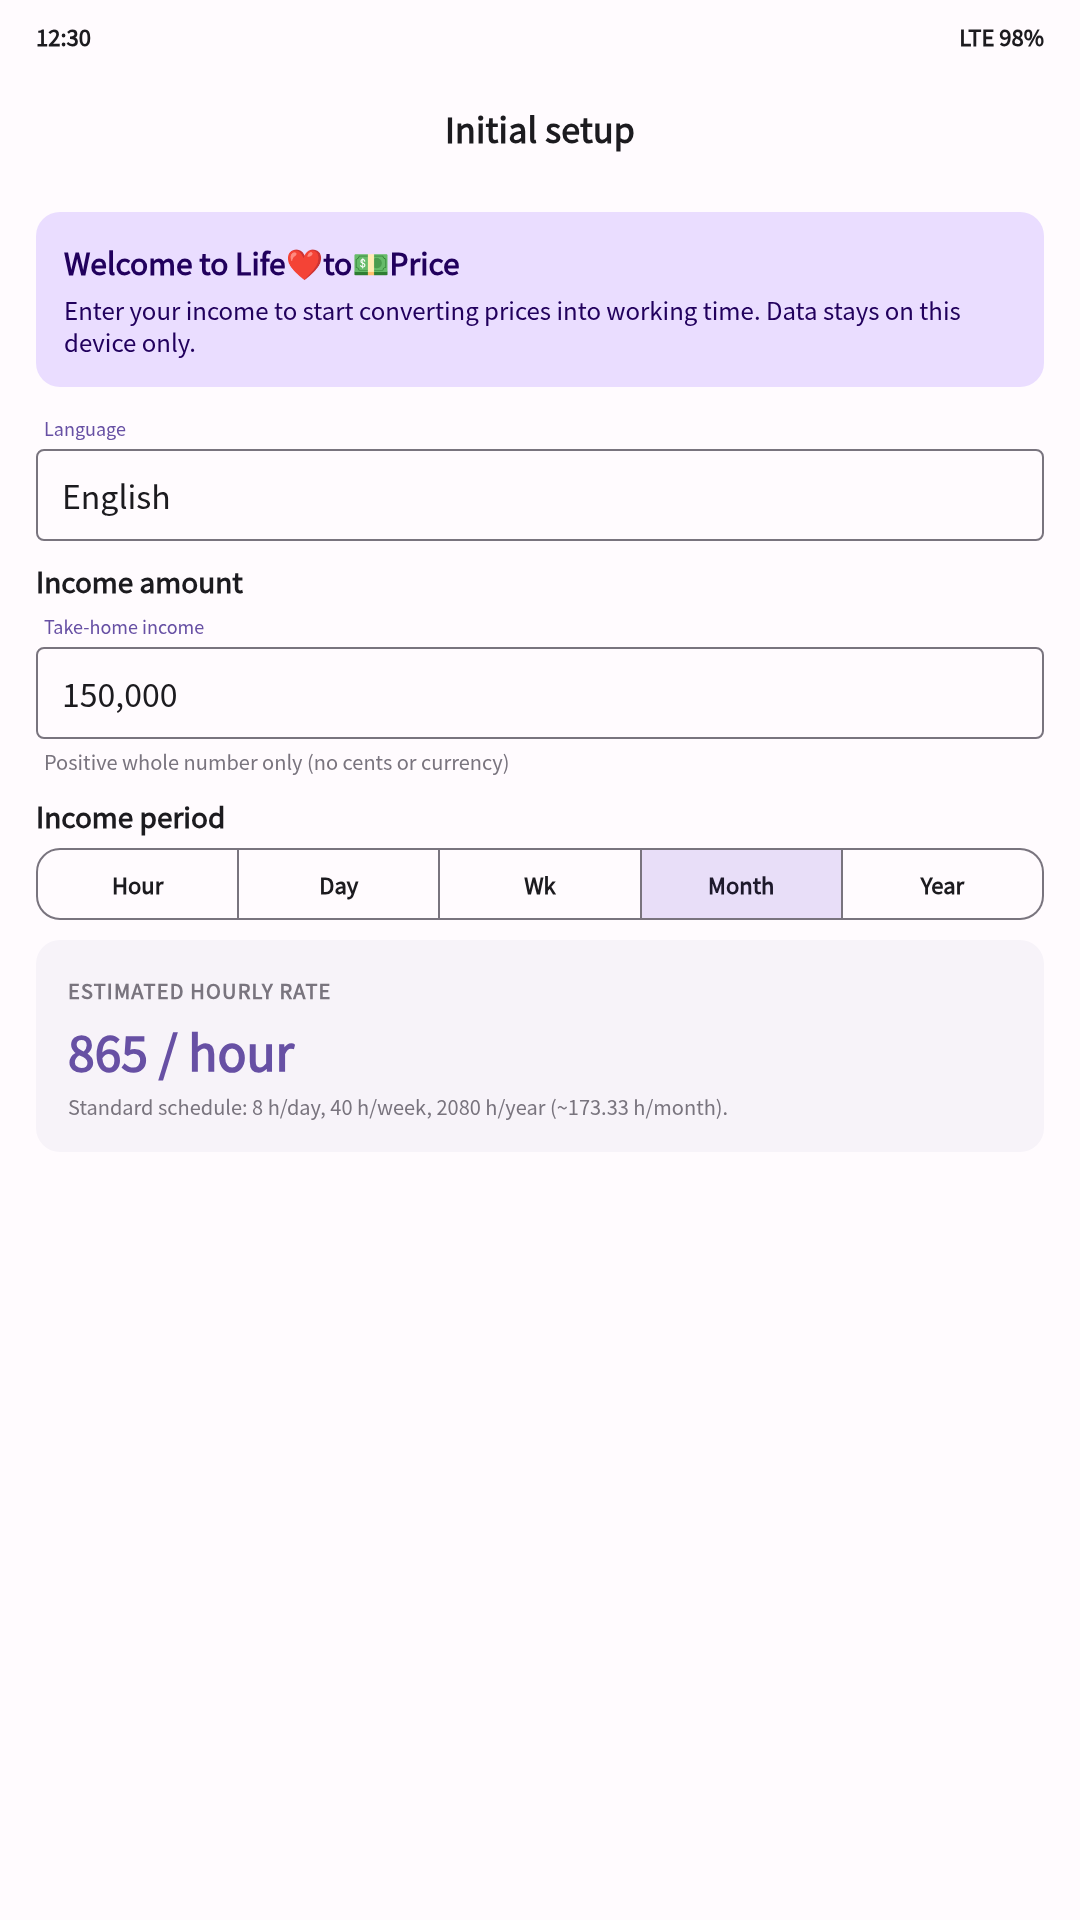
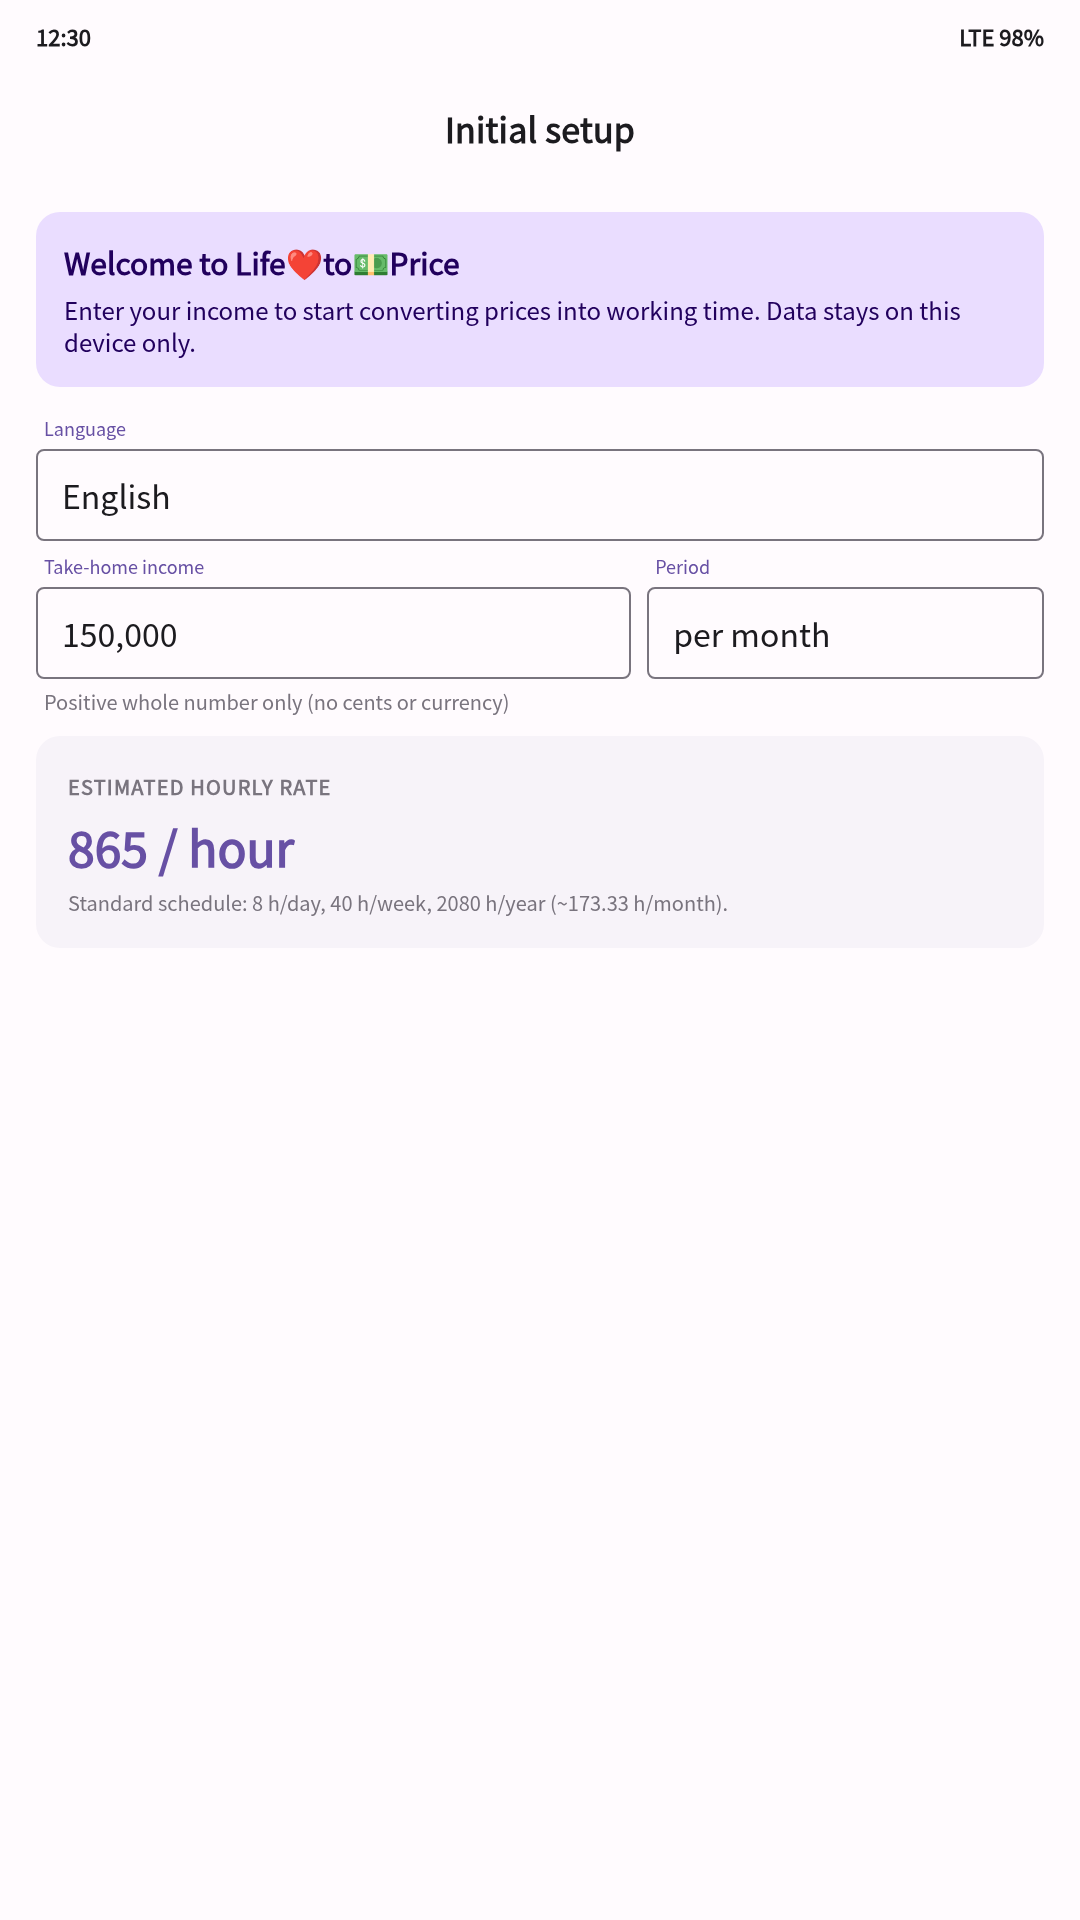
chore: update version to 1.1.0 and enhance documentation
Bumped the app version to 1.1.0 in app.json, package.json, and package-lock.json. Updated versionCode to 2 for Android builds. Modified build_aab.py to dynamically set the AAB destination filename based on the new version. Enhanced Google Play documentation to reflect the version change and added a new "What's new" file for the release. Updated screenshots and localization files to ensure consistency with the new version.

Closes #XX

diff --git a/docs/google-play/preview/phone.html b/docs/google-play/preview/phone.html
@@ -50,6 +50,19 @@
       font-size: 36px;
     }
     .appbar-action.left { right: auto; left: 24px; font-size: 44px; }
+    .income-row { display: flex; gap: 16px; margin-top: 12px; }
+    .income-row .field { flex: 3; margin: 0; }
+    .income-row .field.period { flex: 2; }
+    .privacy {
+      margin-top: 16px;
+      background: transparent;
+      border: 0;
+      color: #6750A4;
+      font-size: 24px;
+      font-weight: 600;
+      padding: 16px 0;
+      width: 100%;
+    }
     .content { flex: 1; padding: 28px 36px 48px; overflow: hidden; }
     .card {
       background: rgb(243, 237, 246);
@@ -120,9 +133,6 @@
     .seg.on { background: #E8DEF8; color: #1D192B; }
     .rate { font-size: 48px; font-weight: 800; color: #6750A4; margin: 10px 0 8px; }
     .small { font-size: 20px; color: #79747E; line-height: 1.35; }
-    .dob { display: flex; gap: 16px; }
-    .dob .outlined { flex: 1; font-size: 28px; }
-    .dob .year { flex: 1.4; }
     .btn {
       margin-top: 28px;
       background: #6750A4;
@@ -168,24 +178,22 @@
         welcomeBody: "Укажите ваш доход, чтобы начать переводить цены в рабочее время. Данные остаются только на этом устройстве.",
         language: "Язык",
         languageValue: "Русский",
-        incomeAmount: "Сумма дохода",
         netIncome: "Доход «на руки»",
         incomeValue: "150 000",
         incomeHint: "Только целое положительное число (без копеек и валюты)",
-        period: "Период получения",
-        periods: ["Час", "День", "Нед.", "Месяц", "Год"],
+        period: "Период",
+        periodValue: "в месяц",
         hourlyRate: "Расчётная часовая ставка",
         perHour: "865 / час",
         schedule: "Стандартный график: 8 ч/день, 40 ч/неделю, 2080 ч/год (~173.33 ч/мес).",
         dob: "Дата рождения",
-        day: "День",
-        month: "Месяц",
-        year: "Год",
+        dobValue: "10 сентября 1996 г.",
         sex: "Пол",
         male: "Муж",
         female: "Жен",
         remaining: "Остаток жизни ≈ 43 года",
         save: "Сохранить доход",
+        privacy: "Политика конфиденциальности",
       },
       en: {
         brand: "Life❤to💵Price",
@@ -206,24 +214,22 @@
         welcomeBody: "Enter your income to start converting prices into working time. Data stays on this device only.",
         language: "Language",
         languageValue: "English",
-        incomeAmount: "Income amount",
         netIncome: "Take-home income",
         incomeValue: "150,000",
         incomeHint: "Positive whole number only (no cents or currency)",
-        period: "Income period",
-        periods: ["Hour", "Day", "Wk", "Month", "Year"],
+        period: "Period",
+        periodValue: "per month",
         hourlyRate: "Estimated hourly rate",
         perHour: "865 / hour",
         schedule: "Standard schedule: 8 h/day, 40 h/week, 2080 h/year (~173.33 h/month).",
         dob: "Date of birth",
-        day: "Day",
-        month: "Month",
-        year: "Year",
+        dobValue: "September 10, 1996",
         sex: "Sex",
         male: "Male",
         female: "Female",
         remaining: "Remaining life ≈ 43 years",
         save: "Save income",
+        privacy: "Privacy policy",
       },
       "zh-Hans": {
         brand: "Life❤to💵Price",
@@ -244,24 +250,22 @@
         welcomeBody: "请填写收入，以便将价格换算为工作时间。数据仅保存在本设备上。",
         language: "语言",
         languageValue: "中文",
-        incomeAmount: "收入金额",
         netIncome: "实得收入",
         incomeValue: "150,000",
         incomeHint: "仅限正整数（不含小数和货币符号）",
-        period: "收入周期",
-        periods: ["时", "日", "周", "月", "年"],
+        period: "周期",
+        periodValue: "每月",
         hourlyRate: "折算小时工资",
         perHour: "865 / 小时",
         schedule: "标准工时：每天 8 小时、每周 40 小时、每年 2080 小时（约每月 173.33 小时）。",
         dob: "出生日期",
-        day: "日",
-        month: "月",
-        year: "年",
+        dobValue: "1996年9月10日",
         sex: "性别",
         male: "男",
         female: "女",
         remaining: "剩余寿命 ≈ 43 年",
         save: "保存收入",
+        privacy: "隐私政策",
       },
     };
 
@@ -277,13 +281,11 @@
     function appbar(title, extras = "") {
       return `<div class="appbar">${extras}<div class="appbar-title">${title}</div></div>`;
     }
-    function field(label, value) {
-      return `<div class="field"><div class="field-label">${label}</div><div class="outlined"><span class="value">${value}</span></div></div>`;
+    function field(label, value, extraClass = "") {
+      return `<div class="field${extraClass ? ` ${extraClass}` : ""}"><div class="field-label">${label}</div><div class="outlined"><span class="value">${value}</span></div></div>`;
     }
-    function segments(selected) {
-      return `<div class="segments">${t.periods.map((label, i) =>
-        `<div class="seg${i === selected ? " on" : ""}">${label}</div>`
-      ).join("")}</div>`;
+    function incomeAndPeriod() {
+      return `<div class="income-row">${field(t.netIncome, t.incomeValue)}${field(t.period, t.periodValue, "period")}</div>`;
     }
 
     function converter(kind) {
@@ -312,11 +314,8 @@
         <div class="content">
           <div class="welcome"><h2>${t.welcomeTitle}</h2><p>${t.welcomeBody}</p></div>
           ${field(t.language, t.languageValue)}
-          <div class="section">${t.incomeAmount}</div>
-          ${field(t.netIncome, t.incomeValue)}
+          ${incomeAndPeriod()}
           <div class="hint">${t.incomeHint}</div>
-          <div class="section">${t.period}</div>
-          ${segments(3)}
           <div class="card level1">
             <div class="label">${t.hourlyRate}</div>
             <div class="rate">${t.perHour}</div>
@@ -328,19 +327,12 @@
     function settingsPerson() {
       return `
         ${statusBar()}
-        ${appbar(t.incomeTitle, `<button class="appbar-action left" aria-hidden="true">×</button>`)}
+        ${appbar(t.incomeTitle, `<button class="appbar-action left" aria-hidden="true">←</button>`)}
         <div class="content">
           ${field(t.language, t.languageValue)}
-          <div class="section">${t.incomeAmount}</div>
-          ${field(t.netIncome, t.incomeValue)}
-          <div class="section">${t.period}</div>
-          ${segments(3)}
-          <div class="section">${t.dob}</div>
-          <div class="dob">
-            <div class="outlined"><span class="value">10</span></div>
-            <div class="outlined"><span class="value">9</span></div>
-            <div class="outlined year"><span class="value">1996</span></div>
-          </div>
+          ${incomeAndPeriod()}
+          <div class="hint">${t.incomeHint}</div>
+          ${field(t.dob, t.dobValue)}
           <div class="section">${t.sex}</div>
           <div class="segments">
             <div class="seg on">${t.male}</div>
@@ -348,6 +340,7 @@
           </div>
           <div class="life-preview">${t.remaining}</div>
           <button class="btn">${t.save}</button>
+          <button class="privacy">${t.privacy}</button>
         </div>`;
     }
 

diff --git a/docs/google-play/build_aab.py b/docs/google-play/build_aab.py
@@ -3,6 +3,7 @@
 
 from __future__ import annotations
 
+import json
 import secrets
 import shutil
 import subprocess
@@ -14,7 +15,9 @@ CRED = ROOT / "credentials"
 KEYSTORE = CRED / "upload.jks"
 PROPS = CRED / "keystore.properties"
 AAB_SRC = ROOT / "android" / "app" / "build" / "outputs" / "bundle" / "release" / "app-release.aab"
-AAB_DEST = Path(__file__).resolve().parent / "aab" / "life2price-1.0.0.aab"
+APP_CONFIG = json.loads((ROOT / "app.json").read_text(encoding="utf-8"))
+VERSION_NAME = APP_CONFIG["expo"]["version"]
+AAB_DEST = Path(__file__).resolve().parent / "aab" / f"life2price-{VERSION_NAME}.aab"
 ALIAS = "upload"
 DNAME = "CN=by.bnd.life2price,OU=bnd,O=bnd,L=Unknown,ST=Unknown,C=RU"
 BUILD_GRADLE = ROOT / "android" / "app" / "build.gradle"

diff --git a/docs/google-play/README.md b/docs/google-play/README.md
@@ -22,7 +22,8 @@ docs/google-play/
                                       /03-first-launch.png
                                       /04-settings-person.png
   preview/phone.html                  ← макеты экранов для пересъёмки
-  aab/life2price-1.0.0.aab            ← signed bundle (gitignored)
+  whatsnew/1.1.0.txt                  ← «Что нового» для Play Console
+  aab/life2price-1.1.0.aab            ← signed bundle (gitignored)
   signing.md                          ← upload-ключ, пересборка
   build_aab.py
 ```
@@ -45,7 +46,9 @@ docs/google-play/
 python docs/google-play/render_assets.py
 ```
 
-AAB: `docs/google-play/aab/life2price-1.0.0.aab`. Ключ загрузки и команды пересборки — `signing.md`. Файл и `credentials/` в git не попадают.
+AAB: `docs/google-play/aab/life2price-1.1.0.aab` (`versionName` 1.1.0 / `versionCode` 2). Ключ загрузки и команды пересборки — `signing.md`. Файл и `credentials/` в git не попадают.
+
+«Что нового» для релиза — `whatsnew/1.1.0.txt` (лимит 500 символов на локаль). В Console: **Test and release → Production → Create new release**.
 
 ## Политика метаданных
 

diff --git a/docs/google-play/console.md b/docs/google-play/console.md
@@ -9,7 +9,7 @@
 | Package name / applicationId | `by.bnd.life2price` |
 | Имя на устройстве (`expo.name`) | Life to Price |
 | Expo slug | `price2life` (не id приложения) |
-| Версия в репозитории | `1.0.0` |
+| Версия в репозитории | `1.1.0` (`versionCode` 2) |
 | Категория | Finance |
 | Теги | Personal finance, Calculator, Lifestyle |
 | Контактный email | *ваш адрес разработчика* |
@@ -55,3 +55,5 @@
 AAB/APK, подпись, Play App Signing, ответ на Data safety в Console. Это шаги в аккаунте разработчика после `expo prebuild` и сборки Android.
 
 Политика конфиденциальности: страница в `docs/privacy/`, URL после публикации GitHub Pages — https://bndby.github.io/price2life/. В Console: **Policy and programs → App content → Privacy policy**. Та же ссылка открывается из настроек приложения.
+
+Релиз 1.1.0: загрузить `docs/google-play/aab/life2price-1.1.0.aab` и вставить «Что нового» из `whatsnew/1.1.0.txt`.

diff --git a/docs/google-play/signing.md b/docs/google-play/signing.md
@@ -18,6 +18,6 @@ JAVA_HOME=/usr/lib/jvm/java-17-openjdk android/gradlew -p android app:bundleRele
 python3 docs/google-play/build_aab.py copy
 ```
 
-Готовый файл: `docs/google-play/aab/life2price-1.0.0.aab`  
+Готовый файл: `docs/google-play/aab/life2price-1.1.0.aab`  
 applicationId: `by.bnd.life2price`  
-versionName `1.0.0` / versionCode `1`
+versionName `1.1.0` / versionCode `2`
